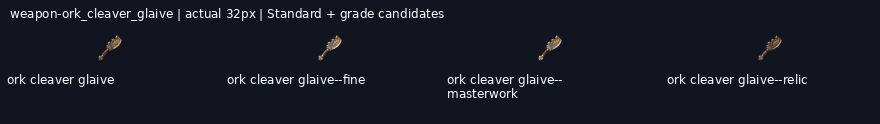
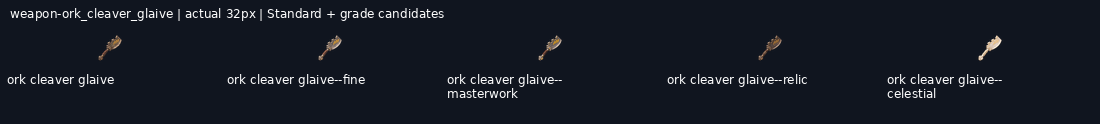
Deliver weapon-ork_cleaver_glaive--celestial review candidate with native provenance and exports

diff --git a/art/briefs/prompts-2026-11-19/PRODUCTION-STATUS.md b/art/briefs/prompts-2026-11-19/PRODUCTION-STATUS.md
@@ -1,12 +1,12 @@
 # Current sole-artist production
 
-**534/871 (61.3%) selected review candidates.** Last delivery: `weapon-ork_cleaver_glaive--relic`. Imports, exports, components, rejected attempts and archived alternatives add0. Artistic/implementation approvals remainfalse.
+**535/871 (61.4%) selected review candidates.** Last delivery: `weapon-ork_cleaver_glaive--celestial`. Imports, exports, components, rejected attempts and archived alternatives add0. Artistic/implementation approvals remainfalse.
 
 | Requested work | Selected | Total |
 | --- | ---: | ---: |
 | icons_tiles | 88 | 88 |
 | new_repaint_standards | 53 | 104 |
-| grades | 379 | 656 |
+| grades | 380 | 656 |
 | uniques | 14 | 23 |
 
 Active run sole-20261121-0109, branch art/2026-11-20-reset-continuation. Shared live ledger: https://github.com/leonpentastorm/Project-Heaven-Cry/issues/3 . Current renewed grade lane: art/_archive/gear/2026-11-21-retry-continuation/START-HERE.md. All earlier512 candidate drawings were integrated before this lane; native bytes, cleaned imports, source metadata and all prior failures preserved.

diff --git a/art/_archive/gear/2026-11-21-retry-continuation/HANDOFF.md b/art/_archive/gear/2026-11-21-retry-continuation/HANDOFF.md
@@ -1,13 +1,13 @@
 # Reset continuation progress
 
-Branch: `art/2026-11-20-reset-continuation`. New deliveries: 21/26.
+Branch: `art/2026-11-20-reset-continuation`. New deliveries: 22/26.
 
 Shared coordination: https://github.com/leonpentastorm/Project-Heaven-Cry/issues/3 . Read START-HERE.md before extending this queue.
 
 All new entries remain review-candidate; production_approved:false and implementation_ready:false. Exact-outline review remains pending.
 
-Ready jobs: weapon-purifier_flamer--masterwork, weapon-hellraiser_rotary--celestial, weapon-ork_cleaver_glaive--celestial.
+Ready jobs: weapon-purifier_flamer--masterwork, weapon-hellraiser_rotary--celestial.
 
-Pending jobs: weapon-purifier_flamer--masterwork, weapon-purifier_flamer--relic, weapon-hellraiser_rotary--celestial, weapon-purifier_flamer--celestial, weapon-ork_cleaver_glaive--celestial.
+Pending jobs: weapon-purifier_flamer--masterwork, weapon-purifier_flamer--relic, weapon-hellraiser_rotary--celestial, weapon-purifier_flamer--celestial.
 
 Quota state: null.

diff --git a/art/_archive/gear/2026-11-20-reset-continuation/START-HERE.md b/art/_archive/gear/2026-11-20-reset-continuation/START-HERE.md
@@ -1,6 +1,6 @@
 # Current21November continuation
 
-534/871 selected. Active lane art/_archive/gear/2026-11-21-retry-continuation/START-HERE.md, run sole-20261121-0109. User explicitly authorized renewed fictional-art attempts; all priorart/errors preserved. Read liveissue3+allcomments and remote deliveries before everyrender. RunningScript completed with original marks unchanged. All approvalsfalse;0.30 holdsremain. See PRODUCTION-STATUS.md and REMAINING-WORK.json for the latest exact count.
+535/871 selected. Active lane art/_archive/gear/2026-11-21-retry-continuation/START-HERE.md, run sole-20261121-0109. User explicitly authorized renewed fictional-art attempts; all priorart/errors preserved. Read liveissue3+allcomments and remote deliveries before everyrender. RunningScript completed with original marks unchanged. All approvalsfalse;0.30 holdsremain. See PRODUCTION-STATUS.md and REMAINING-WORK.json for the latest exact count.
 
 # Historical20November handoff
 
